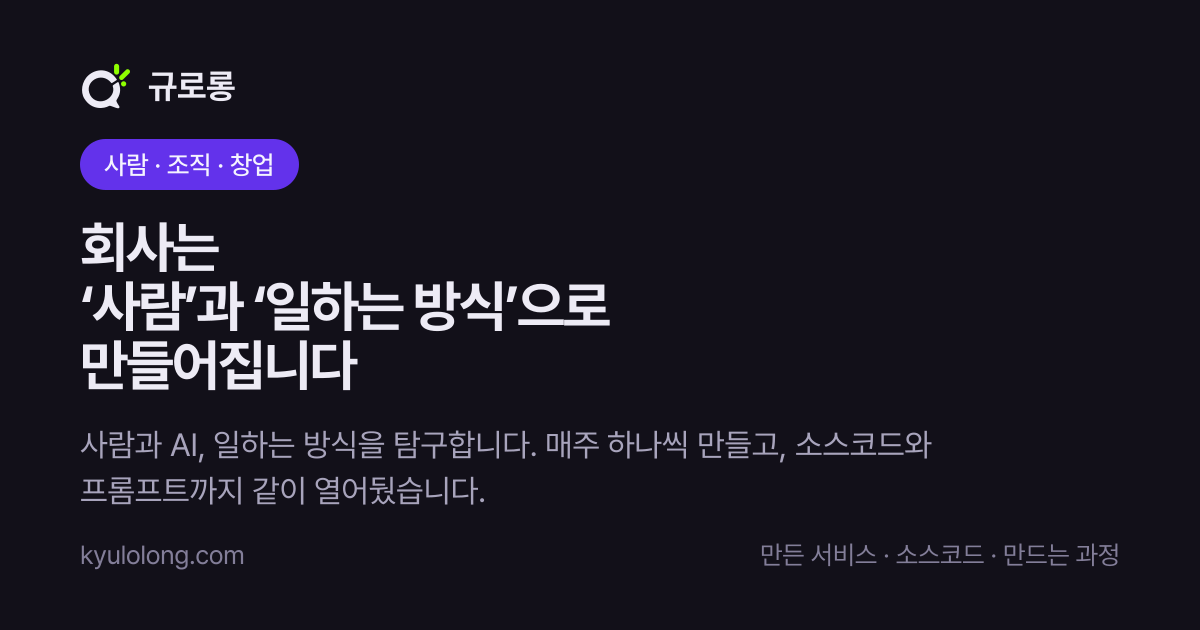
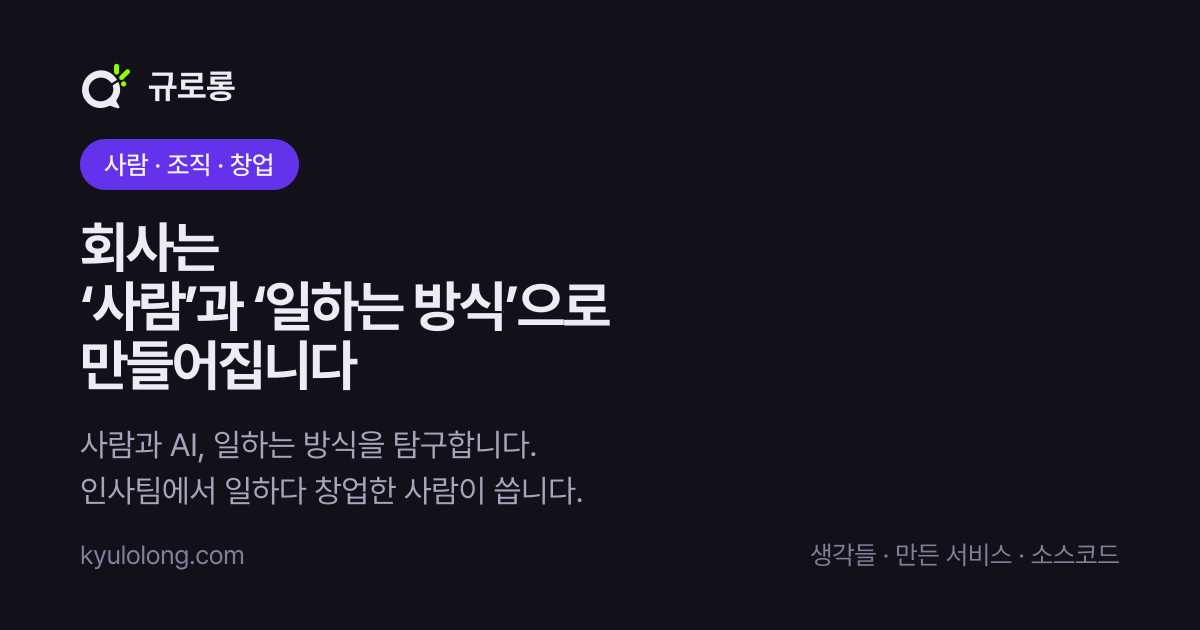
홈 화면 수정

diff --git a/components/hero.tsx b/components/hero.tsx
@@ -121,13 +121,15 @@ export function Hero() {
             0.01ms 로 줄이기 때문이다 — 그러면 멈추는 게 아니라 안 보이게 깜빡인다.
             여기서는 아예 애니메이션을 안 걸어서 켜진 채로 둔다.
 
-            acid 가 아니라 acid-deep 이다 — "현재 배경에서 항상 보이는 초록". 다크에선
-            #8FFF00 그 자체라 화면이 같고, 라이트에선 #3d6b00 이 된다. 흰 바탕 위 형광은
-            1.27:1 이라 커서가 통째로 사라진다 (DESIGN.md §3).
+            acid 다 — 라이트에서도 #8FFF00 그대로 선다 (2026-09-16, 본인 요청).
+            예전엔 acid-deep(라이트 #3d6b00)이었는데 흰 바탕에서 형광이 아니라 짙은
+            초록으로 보여서 이 채널의 한 점이 사라졌다. 흰 바탕 위 형광은 1.27:1 로
+            옅지만, 글자가 아니라 aria-hidden 장식이라 대비 기준이 걸리지 않는다.
+            ⚠ 포커스 링·링크 같은 "읽혀야 하는 초록"은 여전히 acid-deep 이다.
           */}
           <span
             aria-hidden="true"
-            className="bg-acid-deep ml-[0.12em] inline-block h-[0.74em] w-[0.16em] translate-y-[0.04em] align-baseline motion-safe:animate-[caret-blink_1.6s_steps(1,end)_infinite]"
+            className="bg-acid ml-[0.12em] inline-block h-[0.74em] w-[0.16em] translate-y-[0.04em] align-baseline motion-safe:animate-[caret-blink_1.6s_steps(1,end)_infinite]"
           />
         </h1>
 
@@ -142,10 +144,15 @@ export function Hero() {
           위 h1(캐치프레이즈)과 `일하는 방식`이 겹치는 건 실수가 아니다 — 주장에서
           바로 받는 메아리라, 그 한 마디가 이 채널의 중심어라는 걸 두 줄로 못 박는다.
 
-          ⚠ **`로서` 가 이 문단에서 제일 중요한 글자다.** `창업자가` 로 바꾸는 순간
-          안긴 절의 주어가 되어서 "[창업자들이 무엇을 보는지]를 [내가] 기록한다",
-          즉 **남을 취재하는 사람**으로 읽힌다. `로서` 여야 쓰는 사람이 그 창업자
-          본인이 된다. 조사 하나가 이 채널의 논지 전체를 뒤집는다.
+          2번은 **세 시선을 동사 셋으로** 적는다 (2026-09-16, docs/BRAND.md §3).
+          `직장인으로 겪고 · 인사로 들여다보고 · 창업하며 설계해본` 이 전부 `것을` 에
+          걸린다. 직함 셋(직장인·인사전문가·창업가)으로 늘어놓으면 이력서가 되고,
+          동사로 두면 무엇을 기록하는지가 된다. 대문 아래 서명(`인사팀에서 일하다
+          창업한 규로롱`)이 같은 길을 한 사람의 이력으로 받는다.
+          전 문구는 `AX(AI 전환)하는 창업자로서 무엇을 보고, 무엇을 고민하며, 어디로
+          향하는지 기록합니다` — 채널이 AX 하나에서 사람·조직·창업으로 넓어지며 뺐다.
+          ⚠ 그때도 지금도 **주어는 쓰는 사람 본인이다.** `창업자가 …하는지` 처럼
+          남을 주어로 세우면 남을 취재하는 사람으로 읽힌다.
 
           예전 1번은 "창업자에게 가장 중요한 자산은 자기만의 생각이라고 믿습니다"
           였다. 그 믿음은 이제 **h1 이 직접 말하므로**(회사는 무엇으로 만들어지는가)
@@ -153,7 +160,7 @@ export function Hero() {
 
           ⚠ **문장마다 block 이다. 한 덩어리 텍스트로 되돌리지 말 것.**
 
-          하나로 흘려두면 브라우저가 폭이 남는 대로 채워서 `믿습니다. AX(AI 전환)`
+          하나로 흘려두면 브라우저가 폭이 남는 대로 채워서 `탐구합니다. 직장인으로`
           처럼 **한 줄에 두 문장이 걸친다.** 앞 문장이 끝난 걸 눈이 못 알아챈다.
 
           text-balance 는 각 문장 안에서 쓴다 — 두 줄로 접힐 때 한 줄이 길고
@@ -169,14 +176,12 @@ export function Hero() {
           {/* \u00A0 = 줄바꿈 없는 공백. keep-all 이 어절 자체는 안 쪼개지만 어절
               **사이**는 어디서든 끊으므로, 붙여둘 짝은 이렇게 직접 묶는다.
 
-              ⚠ **`AX(AI 전환)` 안의 공백을 반드시 묶을 것.** 괄호 안이라고 안
-              끊기지 않는다 — 그냥 두면 좁은 화면에서 `AX(AI` / `전환)하는` 으로
-              갈려서 괄호가 두 줄에 걸친다.
+              둘째 문장은 `설계해본 것을` 만 묶는다. `것을` 이 줄 첫머리에 홀로 서면
+              앞의 세 동사가 무엇에 걸리는지 눈이 한 번 되짚는다.
 
               ⚠ 남발하면 안 된다 — 묶은 덩어리가 화면 폭보다 길면 가로로 넘친다. */}
           <span className="block text-balance">
-            AX(AI{"\u00A0"}전환)하는 창업자로서 무엇을{"\u00A0"}보고, 무엇을{"\u00A0"}고민하며,
-            어디로{"\u00A0"}향하는지 기록합니다.
+            직장인으로 겪고, 인사로 들여다보고, 창업하며 설계해본{"\u00A0"}것을 기록합니다.
           </span>
         </p>
 

diff --git a/app/page.tsx b/app/page.tsx
@@ -175,7 +175,14 @@ export default async function Home() {
 
         창구가 둘이다 — 인스타 DM 과 퍼플즈 DM. 여기서는 상대를 불러도 된다:
         실제로 말을 거는 자리라서다. 대신 문턱을 낮추는 쪽으로만 쓴다
-        ("한 줄이면 됩니다").
+        ("한 줄이면 충분해요").
+
+        **받는 것이 '만들고 싶은 것'에서 '일하다 막힌 장면'으로 바뀌었다** (2026-09-16).
+        예전엔 "최대한 만들어 보겠습니다"였는데, 규로롱의 일이 만들어 주는 쪽에서
+        사람의 일과 성장을 같이 들여다보는 쪽(교육·코칭)으로 옮겨가면서 그 약속이
+        어긋났다. 프로그램은 아직 모집하지 않으므로 여기서 팔지 않는다 — 장면을
+        받는 창구로만 두고, 모집을 시작하면 그때 이 절을 다시 본다. 받은 장면은
+        글감(docs/BRAND.md §8 "익숙한 장면")이기도 해서 "먼저 여쭙겠습니다"를 적어둔다.
 
         여기에 면을 깔지 않는다. 이 절은 가는 선 하나로 열고 여백으로 buffer 를
         만든다 — 얼굴과 1인칭 문장이 서는 자리라, 상자에 담으면 배너로 읽힌다.
@@ -195,8 +202,8 @@ export default async function Home() {
 
               히어로에 있던 것을 여기로 내렸다. 대문이 먼저 해야 할 말은 "오늘의
               생각이 내일의 창업으로"지 자기소개가 아니라서다. 대신 이 절은 이
-              페이지에서 **유일하게 1인칭으로 말을 거는 자리**다("최대한 만들어
-              보겠습니다", "저도 혼자 아이디어를 떠올리기 보다"). 묻는 사람의
+              페이지에서 **유일하게 1인칭으로 말을 거는 자리**다("같이
+              살펴보겠습니다", "먼저 여쭙겠습니다"). 묻는 사람의
               얼굴이 질문 위에 있어야 그 말이 누구 말인지 분명해지고, 바로 아래
               DM 버튼이 "이 사람에게 보낸다"가 된다.
 
@@ -209,6 +216,13 @@ export default async function Home() {
 
               한 톤으로 둔다. 이름만 밝히면 14px 한 줄에 색이 둘이 되어 부산스럽고,
               서명은 자랑이 아니라 낙관(落款)이다 (DESIGN.md §7).
+
+              **수식어는 직함이 아니라 지나온 길이다** (2026-09-16, 전: `AX하는 창업가`).
+              직장인·인사·창업 세 시선(docs/BRAND.md §3)을 직함 셋으로 늘어놓지 않고
+              순서로 적었다. `창업가` 만 남기면 회사를 떠난 사람의 채널로 읽혀서 핵심
+              독자(직장인)가 자리를 못 찾는다. `인사를 하다` 는 "인사하다"로 먼저 읽혀서
+              `인사팀에서` 다. ⚠ 인스타 이름(`규로롱 | 사람·조직·창업`)과 맞추지 않는다 —
+              그 문구는 히어로 눈썹 줄이 이미 받고 있어서, 여기까지 쓰면 한 페이지에 두 번 선다.
 
               ⚠ **원본(kyulolong2.png, 778×1202)을 여기에 직접 걸지 말 것.**
               세로 3:4 사진이라 원형으로 자르면 얼굴이 세로의 38% 밖에 안 되고,
@@ -227,19 +241,18 @@ export default async function Home() {
                 sizes="(min-width: 768px) 6rem, 5rem"
                 className="bg-surface-2 size-20 shrink-0 rounded-full object-cover md:size-24"
               />
-              <p className="text-ink-faint text-sm">AX하는 창업가, 규로롱</p>
+              <p className="text-ink-faint text-sm">인사팀에서 일하다 창업한 규로롱</p>
             </div>
 
             <h2 className="text-[clamp(1.75rem,4vw,2.5rem)] leading-[1.2] font-extrabold tracking-[-0.03em] text-balance">
-              만들어보고 싶은 게 있으세요?
+              일하다 막힌 장면이 있으세요?
             </h2>
             <p className="text-ink-soft mt-5 text-lg text-pretty">
-              기획서일 필요 없고 한 줄이면 됩니다. 만들고 싶은 이유도 알려주신다면 더 좋겠죠.
-              &ldquo;이런 게 있으면 좋겠는데&rdquo; 정도로 충분해요.
+              정리된 질문이 아니어도 됩니다. 어떤 일을 하다가 어디서 막혔는지, 한 줄이면 충분해요.
             </p>
             <p className="text-ink-soft mt-4 text-lg text-pretty">
-              최대한 만들어 보겠습니다. 생각과정을 공유합니다. 아이디어 보낸 분은
-              거기서부터 작업을 시작하세요. 저도 혼자 아이디어를 떠올리기 보다 함께 생각을 개선해 나가는 과정이 더 즐겁습니다.
+              모두가 성장할 수 있는 방법을 같이 살펴보겠습니다. 사람 탓으로 보이던 일이
+              역할이나 구조의 문제일 때가 많습니다. 글로 옮기고 싶은 장면은 먼저 여쭙겠습니다.
             </p>
             {/* 둘 다 잉크다. 알약 둘이 나란히 서지만 색이 같아서 위계가 아니라
                 선택지로 읽힌다 — 실제로 둘은 대등한 창구다. */}

diff --git a/app/about/page.tsx b/app/about/page.tsx
@@ -8,7 +8,7 @@ import { INSTAGRAM_URL, INTERNAL_LINKS, SOCIAL_LINKS } from "@/lib/site-links";
 export const metadata: Metadata = pageMetadata({
   title: "소개",
   description:
-    "인사담당자가 코드 한 줄 못 짜다가 AI와 함께 매주 하나씩 만들기까지. 어떻게 여기까지 왔는지 적어뒀습니다.",
+    "삼성SDS 인사팀에서 일하다 창업하기까지. 사람과 조직을 어떻게 보게 됐는지 적어뒀습니다.",
   path: "/about",
 });
 
@@ -17,9 +17,14 @@ export const metadata: Metadata = pageMetadata({
  * 구조: 인사 → 질문(함께 일하기) → AI 시대의 차별화 → 두 번의 창업 → 기록의 이유
  * → 존재의 가치 → 맺음("빈 화면 앞에서…").
  *
- * ⚠ 첫 문단이 청중을 호명한다(창업자 · 주니어) — CLAUDE.md 1번 "쓰지 않을 말"과
- * 충돌하지만 본인이 직접 쓴 문장이라 그대로 뒀다. 이 문단을 다시 만지게 되면
- * 그 규칙을 옆에 둘 것.
+ * 2026-09-16 부분 개정 — 교육·코칭 쪽으로 방향을 잡으며 사실과 호명을 맞췄다.
+ *   - 첫 문단: 청중 호명(창업을 고민하는 분 · 주니어)을 브랜드 핵심 질문으로 교체
+ *     (docs/BRAND.md §2 "회사에서 일하면서 우리는 무엇을 배워야 하는가?").
+ *   - 경력: 삼성SDS 해외인사팀 5년(37개국 채용 · 직무 분석 · 글로벌 인사 시스템),
+ *     스타트업 2년. 직무 분석은 교육 서비스의 근거라 새로 적었다.
+ *   - 부트캠프(2024)와 팀의 내력: 동료 둘은 부트캠프에서, 하나는 전 직장에서.
+ *     ⚠ 스타트업 영업총괄 이력은 사이트에 올리지 않기로 했다 (본인 결정).
+ *   - metadata 에서 "코드 한 줄 못 짜다가"를 뺐다 — 부트캠프를 수료했으니 사실과 어긋난다.
  *
  * 이전 판의 장면들(아내의 한 문장, "이게 되네?" 탄생 장면, 목요일 밤 10시 ·
  * 월 3만원, 뾰로롱 유래, 라이선스 안내)은 이 개정에서 빠졌다 — 필요해지면
@@ -53,20 +58,18 @@ export default function AboutPage() {
               preload
             />
           </div>
-          <figcaption className="text-ink-faint mt-3.5 text-sm">
-            둘째와 함께 다녀온 여행에서 한 컷
-          </figcaption>
         </figure>
 
         <div className="text-ink-soft space-y-6 pb-4 text-[1.0625rem]">
           <p>
-            이 홈페이지는 창업을 고민하는 분들에게 생각의 확신을, 커리어를 시작하는 주니어 분들에게는
-            조금 더 용기를 드리기 위해 만들었습니다.
+            이 홈페이지는 회사에서 일하며 무엇을 배워야 하는지, 그 배움이 다음 일로 어떻게
+            이어지는지 이야기하려고 만들었습니다.
           </p>
 
           <p>
-            저는 10년 가까이 인사와 조직을 경험했습니다. 해외인사팀에서 37개국의
-            채용을 운영했고, 글로벌 인사 시스템을 만드는 일에도 참여했습니다.
+            저는 10년 가까이 인사와 조직을 경험했습니다. 대기업 해외인사팀에서 5년 동안
+            37개국의 채용을 운영하고, 직무를 분석하고, 글로벌 인사 시스템 도입을
+            맡았습니다. 스타트업에서는 2년 동안 인사를 포함한 운영 전반을 맡았습니다.
           </p>
 
           <p>그 과정에서 하나의 질문이 생겼습니다.</p>
@@ -102,8 +105,13 @@ export default function AboutPage() {
           </p>
 
           <p>
-            두 번째 창업에서는 동료들과 함께 시작했습니다. 처음에는 전혀 다른
-            서비스를 만들었지만, 서로의 의견을 듣고 바꾸는 과정에서 지금의{" "}
+            그때는 개발을 외주에 맡겼습니다. 그래서 다음에는 직접 개발을 배우고
+            함께 만들 동료를 찾으려고, 앱 개발 부트캠프에 들어갔습니다.
+          </p>
+
+          <p>
+            두 번째 창업은 그 부트캠프에서 시작했습니다. 그때의 동료 두명이 지금도 같은 팀입니다. 이후 전 직장 동료 한 명이 합류해
+            지금은 넷이 일합니다. 처음에는 전혀 다른 서비스를 만들었지만, 서로의 의견을 듣고 바꾸는 과정에서 지금의{" "}
             <a
               href="https://perplz.com"
               target="_blank"
@@ -164,7 +172,7 @@ export default function AboutPage() {
           </p>
           {/* 이 채널의 유일한 쌍방향 장치라 한 줄로 남긴다. */}
           <p className="text-ink-soft mt-3">
-            만들어보고 싶은 게 있으면{" "}
+            일하다 막힌 장면이 있으면{" "}
             <a
               href={INSTAGRAM_URL}
               target="_blank"

diff --git a/scripts/make-og.tsx b/scripts/make-og.tsx
@@ -138,8 +138,15 @@ function card() {
         {/* 첫 줄이 **태그라인 전문**이다 (lib/seo.ts 의 SITE_TITLE·푸터와 같은 문장).
             위가 주장이고 여기가 하는 일이라, 둘을 붙여 읽으면 이 채널이 무엇을
             말하고 무엇을 하는지가 카드 한 장에서 끝난다. */}
+        {/* 둘째 문장은 누가 쓰는지다 (2026-09-16). 예전엔 "매주 하나씩 만들고,
+            소스코드와 프롬프트까지 같이 열어뒀습니다"였는데, 채널의 축이 만드는
+            사람에서 사람과 조직을 해석하는 사람으로 옮겨가서 대문 아래 서명과 맞췄다.
+            ⚠ 문장마다 줄을 나눈다. 폭에 맡기면 900px 에서 `씁니다.` 한 어절만
+            다음 줄로 떨어진다 (실제로 한 번 구워서 봤다). */}
         <div
           style={{
+            display: "flex",
+            flexDirection: "column",
             marginTop: 26,
             fontSize: 32,
             color: INK_SOFT,
@@ -147,14 +154,15 @@ function card() {
             maxWidth: 900,
           }}
         >
-          사람과 AI, 일하는 방식을 탐구합니다. 매주 하나씩 만들고,
-          소스코드와 프롬프트까지 같이 열어뒀습니다.
+          <div>사람과 AI, 일하는 방식을 탐구합니다.</div>
+          <div>인사팀에서 일하다 창업한 사람이 씁니다.</div>
         </div>
       </div>
 
       <div style={{ display: "flex", alignItems: "center", justifyContent: "space-between" }}>
         <div style={{ fontSize: 26, color: INK_FAINT }}>kyulolong.com</div>
-        <div style={{ fontSize: 26, color: INK_FAINT }}>만든 서비스 · 소스코드 · 만드는 과정</div>
+        {/* 글이 이 채널의 축이라 맨 앞에 선다 (CLAUDE.md 3번 "대문의 순서가 논지다") */}
+        <div style={{ fontSize: 26, color: INK_FAINT }}>생각들 · 만든 서비스 · 소스코드</div>
       </div>
     </div>
   );

diff --git a/lib/site-links.ts b/lib/site-links.ts
@@ -78,20 +78,25 @@ export const FOUNDER_QUESTIONS = {
  * 여기 넣으면 12번의 "구조화 데이터에는 사실만 적는다"가 흐려진다. 오픈채팅방은
  * 프로필이 아니라 장소라서 아래 FOOTER_CHANNELS 에서만 합류한다.
  */
-export const SOCIAL_LINKS = [
-  { label: "인스타그램", href: INSTAGRAM_URL },
-  { label: "깃허브", href: "https://github.com/Kyulolong" },
-  { label: "퍼플즈", href: PERPLZ_PROFILE_URL },
-] as const;
+const INSTAGRAM = { label: "인스타그램", href: INSTAGRAM_URL } as const;
+const GITHUB = { label: "깃허브", href: "https://github.com/Kyulolong" } as const;
+const PERPLZ = { label: "퍼플즈", href: PERPLZ_PROFILE_URL } as const;
+
+export const SOCIAL_LINKS = [INSTAGRAM, GITHUB, PERPLZ] as const;
 
 /**
- * 푸터의 '채널' 줄. 소셜 셋에 오픈채팅을 더한 것이다.
+ * 푸터의 '채널' 줄. 인스타그램·퍼플즈에 오픈채팅을 더한 것이다.
  *
  * 푸터는 전체 지도라(FOOTER_NAV 와 같은 이유) 대문 슬랩에서만 열리는 방도
  * 여기 실린다 — 슬랩을 지나쳐 내려온 사람에게 남는 유일한 입구다.
+ *
+ * ⚠ **깃허브는 푸터에서 뺐다** (2026-09-16, 본인 요청). SOCIAL_LINKS 에는 남아 있어서
+ * sameAs 와 /about 의 채널 버튼에는 그대로 나간다. 그래서 SOCIAL_LINKS 를 펼치지
+ * 않고 하나씩 집는다 — 라벨로 filter 하면 이름을 고칠 때 조용히 다시 살아난다.
  */
 export const FOOTER_CHANNELS = [
-  ...SOCIAL_LINKS,
+  INSTAGRAM,
+  PERPLZ,
   { label: KAKAO_OPENCHAT.label, href: KAKAO_OPENCHAT.href },
 ] as const;
 

diff --git a/components/site-footer.tsx b/components/site-footer.tsx
@@ -39,8 +39,9 @@ export function SiteFooter() {
               사람과 AI, 일하는 방식을 탐구합니다.
             </p>
 
-            {/* 라벨을 붙여 두는 이유: 주소만 있으면 "만들어달라" 요청도 여기로 온다.
-                그건 인스타 DM 이 받는다 (/about 의 규칙 3번). 주소는 고정폭으로
+            {/* 라벨을 붙여 두는 이유: 주소만 있으면 "일하다 막힌 장면" 같은 가벼운
+                말도 여기로 온다. 그건 인스타 DM 이 받는다 (대문 맨 아래 말 거는 곳 ·
+                /about). 이 주소는 협업·기관 문의 같은 업무 연락용이다. 주소는 고정폭으로
                 적는다 — 눈으로 옮겨 적는 문자열이라 l·1·I 가 갈려야 한다. */}
             <p className="text-ink-soft mt-4 text-sm">
               문의{" "}

diff --git a/app/globals.css b/app/globals.css
@@ -41,7 +41,7 @@
 
   /* ── 10% 강조 — Neon Lime ────────────────
      상한이지 채울 칸이 아니다. 이 사이트에서 형광은 히어로의 커서 하나다
-     (커서는 acid-deep 이다 — 흰 바탕 위 형광은 1.27:1 이라 라이트에선 사라진다). */
+     (커서는 라이트에서도 acid 다 — 장식이라 대비 기준 밖, 2026-09-16). */
   --color-acid: #8fff00; /* 바탕 위 14.79:1 */
   --color-acid-deep: #8fff00; /* '현재 배경에서 항상 보이는 초록' — 다크에선 acid 와 같다. 라이트 값은 아래 @supports */
   --color-acid-press: #7ce600;

diff --git a/app/manifest.ts b/app/manifest.ts
@@ -19,7 +19,7 @@ export default function manifest(): MetadataRoute.Manifest {
     name: "규로롱",
     short_name: "규로롱",
     description:
-      "사람과 AI, 일하는 방식을 탐구합니다. 만든 서비스와 소스코드, 생각한 것을 모아둡니다.",
+      "사람과 AI, 일하는 방식을 탐구합니다. 생각한 것과 만든 서비스, 소스코드를 모아둡니다.",
     start_url: "/",
     display: "standalone",
     theme_color: "#121019",
